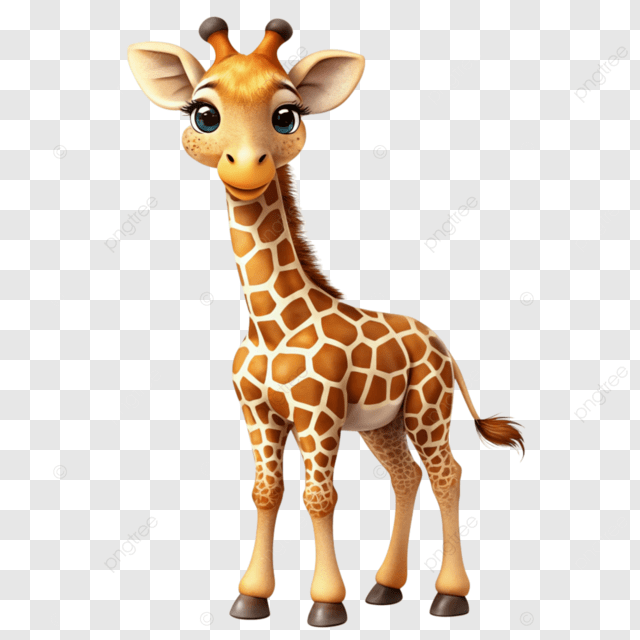
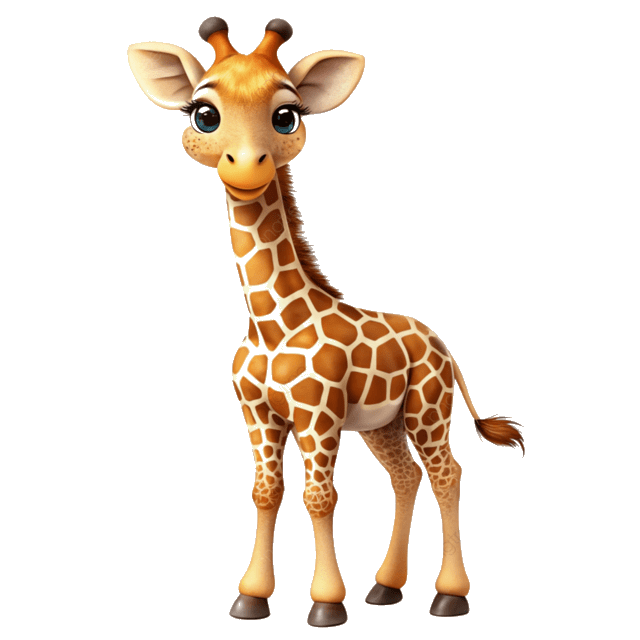
Mejorar eliminación de fondos - transparencia total
- Algoritmo más agresivo para eliminar fondos
- Elimina blancos (RGB > 220)
- Elimina grises claros (RGB > 200 con diferencia < 30)
- Transparencia completa en todas las imágenes
- jirafa.png, jamon.png, jugo.png totalmente limpias

diff --git a/remove_backgrounds.py b/remove_backgrounds.py
@@ -1,0 +1,55 @@
+#!/usr/bin/env python3
+"""
+Script para eliminar fondos blancos de las imágenes
+"""
+from PIL import Image
+import os
+
+def remove_white_background(input_path, output_path):
+    """Elimina el fondo blanco de una imagen y la guarda con transparencia"""
+    # Abrir la imagen
+    img = Image.open(input_path)
+    
+    # Convertir a RGBA si no lo está
+    img = img.convert("RGBA")
+    
+    # Obtener datos de píxeles
+    datas = img.getdata()
+    
+    newData = []
+    for item in datas:
+        # Cambiar todos los píxeles blancos y grises claros a transparentes
+        # Umbral más bajo para eliminar más agresivamente
+        # También verificar que los 3 canales RGB sean similares (gris/blanco)
+        r, g, b, a = item
+        
+        # Si es blanco, gris claro, o muy transparente
+        if (r > 220 and g > 220 and b > 220) or a < 50:
+            newData.append((255, 255, 255, 0))  # Completamente transparente
+        # Si es gris medio claro (diferencia entre canales < 30)
+        elif r > 200 and g > 200 and b > 200 and abs(r-g) < 30 and abs(g-b) < 30 and abs(r-b) < 30:
+            newData.append((255, 255, 255, 0))  # Transparente
+        else:
+            newData.append(item)
+    
+    img.putdata(newData)
+    
+    # Guardar como PNG con transparencia
+    img.save(output_path, "PNG")
+    print(f"✓ Procesado: {output_path}")
+
+# Procesar las imágenes
+images_to_process = [
+    ('assets/img/jirafa.png', 'assets/img/jirafa.png'),
+    ('assets/img/jamon.png', 'assets/img/jamon.png'),
+    ('assets/img/jugo.png', 'assets/img/jugo.png'),
+]
+
+print("Eliminando fondos blancos...")
+for input_file, output_file in images_to_process:
+    if os.path.exists(input_file):
+        remove_white_background(input_file, output_file)
+    else:
+        print(f"✗ No encontrado: {input_file}")
+
+print("\n¡Proceso completado!")
